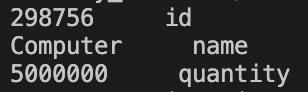
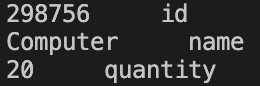
completed task 2 and added proof screenshot (added extra proof)

diff --git a/module_1_programming_concepts/week_5/Exercise_2.java b/module_1_programming_concepts/week_5/Exercise_2.java
@@ -3,6 +3,8 @@ public class Exercise_2 {
     {
         Product2 product = new Product2(298756, "Computer", 5000000);
 
+        product.setQuantity(20);
+
         Exercise_2.print_Product(product);
     }
 
